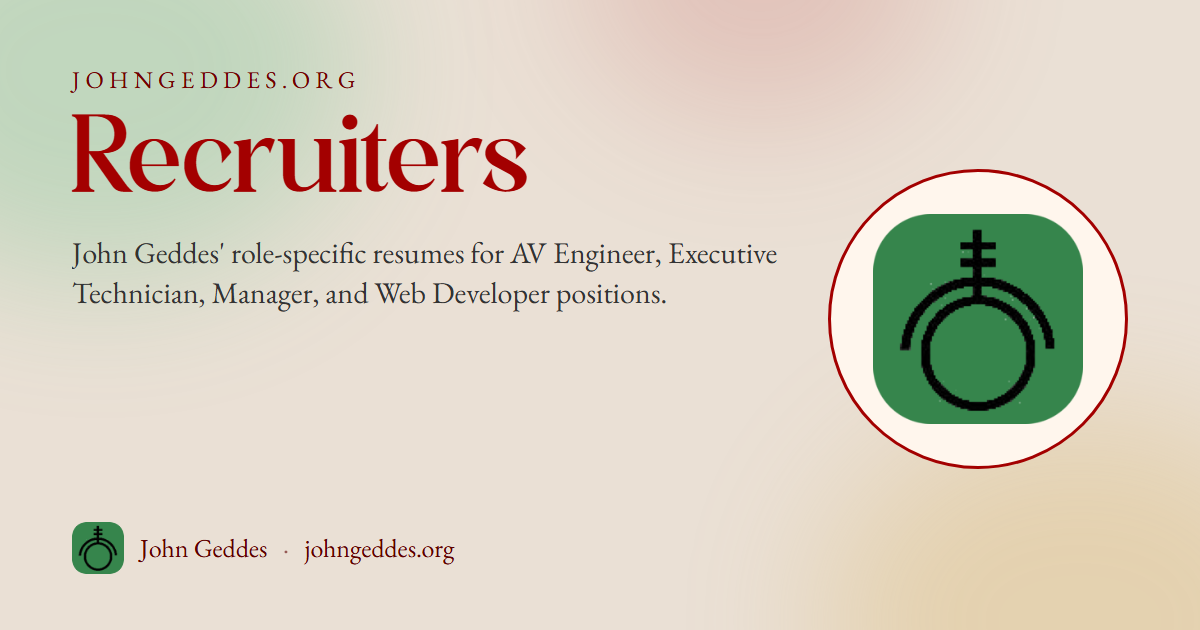
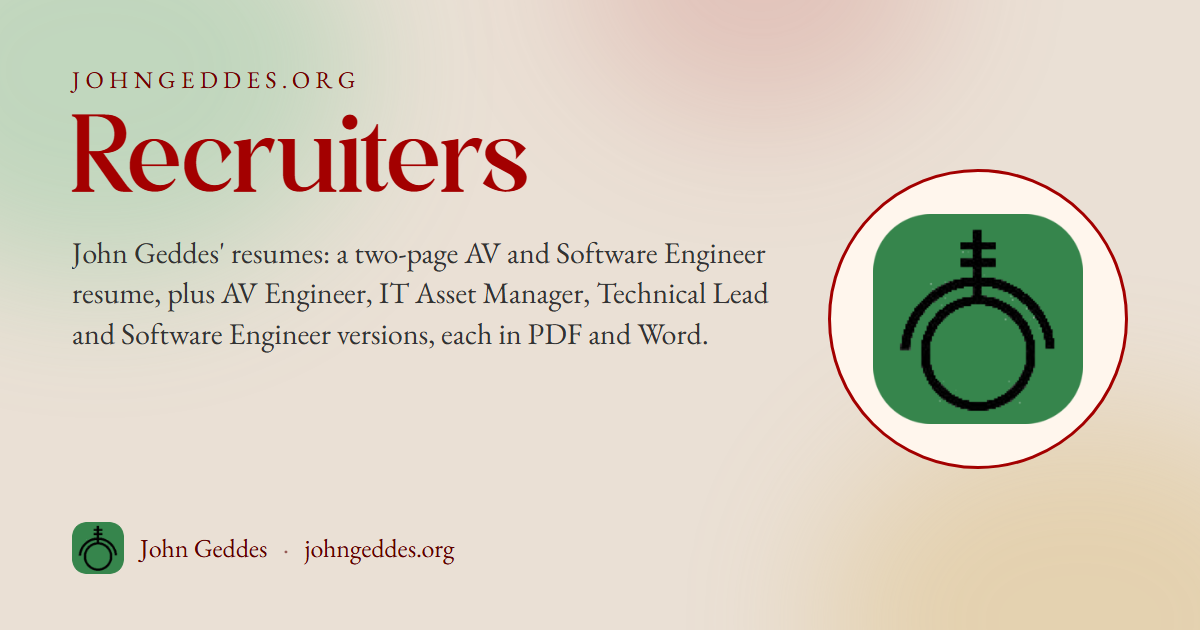
Recruiters: share card describes the new resumes, and the hours figure keeps its estimate
The share image for /recruiters is drawn from the page description, so it
still listed the four retired roles. The asset figure for hours saved now
says it is a team estimate, as the Census page does.

Claude-Session: https://claude.ai/code/session_01UZjaXrSzkhb612Hs8BSciY

Changed region(s): [[0.0617, 0.3619, 0.6475, 0.4825], [0.0617, 0.5127, 0.5858, 0.573]]

diff --git a/src/resumes/data.js b/src/resumes/data.js
@@ -306,7 +306,7 @@ export const TRACKS = [
       ['48,243', 'assets cataloged'],
       ['14', 'outside systems connected'],
       ['910', 'assets onboarded in two weeks'],
-      ['314', 'hours a month given back'],
+      ['314', 'hours a month saved, by team estimate'],
     ],
   },
   {
